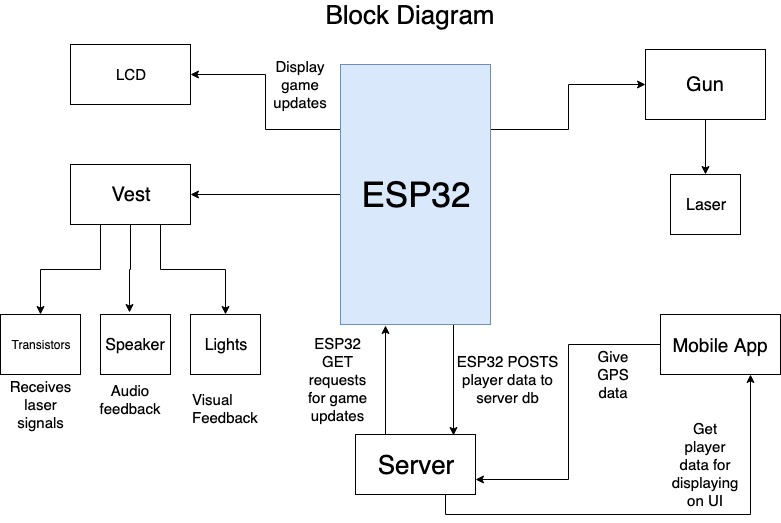
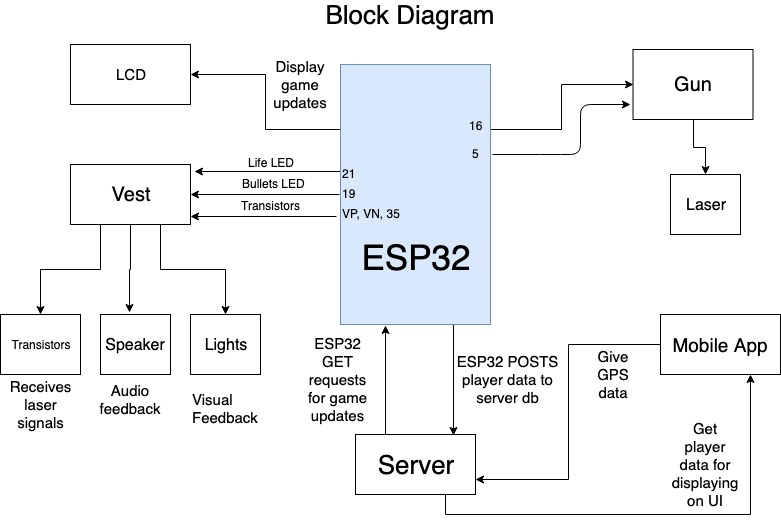
Added Andrew's stuff

diff --git a/web/code.html b/web/code.html
@@ -24,6 +24,14 @@
 
   <h3> Final.ino </h3>
   <p> This final contains all of the ESP32 code code including the state machines for the game logic, lights, and laser.</p>
+  <img src="images/laserButton.png">
+  <p>This is a state machine with 4 states. Overall, this function is supposed to turn off the
+laser if there are no bullets left and reload the gun if the trigger is held for 1 second. In the base case, the user has not pressed the laser gun’s trigger. If the button is pressed, the function moves to its first state and starts a timer. In the first state, if the button is released, the function returns to the base state. However, if one second has passed and the button is still being pressed, the laser’s PWM will be set to 0 (which turns off the laser) and the function will move to its second state. In the second state, the function will wait two more seconds before it turns on the laser again, returns to state 0, and resets the number of bullets to its maximum. If the player is in the base state and has 0 bullets, the function will start a timer, turn off the laser, and enter the third state. In the third state, the function will wait 3 seconds before it turns the laser back on, resets the bullets, and return to the base state.<p><br>
+  <p>Additionally, this function should control the number of bullets each player has and adjust and LED
+strip to represent this number. In the base state, the function checks if function laserbutton() is in state 2. If so, the function lights up every LED white. If the function gets a reading that the player shot a bullet, 2 LED’s from the strip will turn off to represent that the player just used a bullet and the function will move to its first state. In the first state, the function either waits .2 seconds to return to the base state, or waits 1 second and then turns on all the lights on the LED strip.</p>
+ <img src="images/stateMachine1.png"><img src="images/stateMachine2.png"><img src="images/stateMachine3.png">
+ <p>In the INGAME state, when any of the transistors are activated (reading1 < 1, reading2 < 1, reading3 < 1), the number of lives a player has adjusts and displays on the LCD
+accordingly whenever a player is shot. A POST request that updates the number of bullets on the server is made here. Initially, every player starts with 3 green LED’s turned on to signify full health. If a reading is made that says the player was shot, the function checks how many lives the player had and decreases the number of lives by 1. If a player with one life is shot, all LED’s turn off, signifying the player has lost.</p>
   <h3> request.py </h3>
   <p> request.py is the server-side code uploaded to 608dev.net. It contains all of the request handlers for GET and POST requests that the ESP32 and mobile app make.
     <img src="images/serverInit.jpg">
